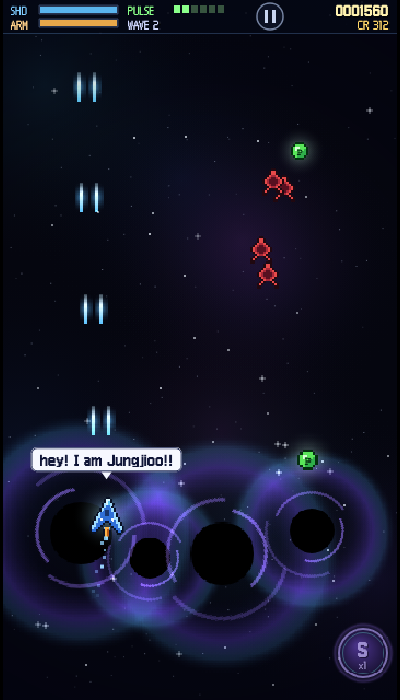
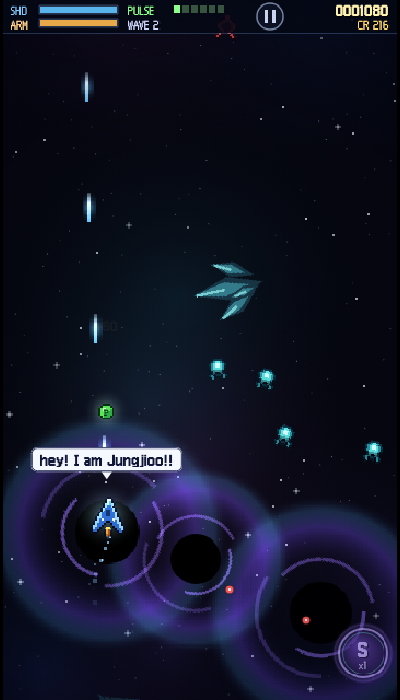
그래픽 패스 2: 스프라이트 입체감 필터·티리안식 지형 구조물·움직임 주스
- 전 함선/보스/파츠에 픽셀 입체감 필터(상단 림 라이트 + 하단 셀프 섀도 + 수직 그라디언트)
- 테마별 대형 지형 구조물이 흘러감: 수정 성단(성운)·용암 바위(원시별/적색거성)·
  소행성(주계열/초신성)·난파선 잔해(블랙홀) — 회전·스케일 랜덤
- 움직임 주스: 강하기 이동방향 기울기, 사인기 뱅킹, 측면기 기울기, 보스 미세 맥동

diff --git a/src/systems/textures.ts b/src/systems/textures.ts
@@ -454,6 +454,36 @@ function tinted(rows: string[], scale: number, color: string, alpha: number): HT
   return c;
 }
 
+/** 픽셀아트 입체감 필터: 상단 림 라이트 + 하단 셀프 섀도 + 수직 그라디언트 */
+function enhance(c: HTMLCanvasElement): HTMLCanvasElement {
+  const ctx = c.getContext('2d');
+  if (!ctx) return c;
+  const w = c.width;
+  const h = c.height;
+  const img = ctx.getImageData(0, 0, w, h);
+  const d = img.data;
+  const idx = (x: number, y: number) => (y * w + x) * 4;
+  const alphaAt = (x: number, y: number) =>
+    x < 0 || y < 0 || x >= w || y >= h ? 0 : (d[idx(x, y) + 3] ?? 0);
+  const out = ctx.createImageData(w, h);
+  out.data.set(d);
+  const o = out.data;
+  for (let y = 0; y < h; y++) {
+    for (let x = 0; x < w; x++) {
+      const i = idx(x, y);
+      if ((d[i + 3] ?? 0) === 0) continue;
+      let f = 1 + 0.16 * (0.5 - y / h);
+      if (alphaAt(x, y - 2) === 0) f *= 1.4;
+      else if (alphaAt(x, y + 2) === 0) f *= 0.7;
+      o[i] = Math.min(255, (d[i] ?? 0) * f);
+      o[i + 1] = Math.min(255, (d[i + 1] ?? 0) * f);
+      o[i + 2] = Math.min(255, (d[i + 2] ?? 0) * f);
+    }
+  }
+  ctx.putImageData(out, 0, 0);
+  return c;
+}
+
 /* ---------- 유틸: 글로우 탄환 ---------- */
 
 function glowBullet(
@@ -476,29 +506,29 @@ function glowBullet(
 
 export function generateTextures(scene: Phaser.Scene): void {
   // 함선
-  addCanvasTexture(scene, 'ship-player', pixmap(PLAYER_MAP, PLAYER_PAL, 2));
-  addCanvasTexture(scene, 'ship-e1', pixmap(E1_MAP, E1_PAL, 2));
-  addCanvasTexture(scene, 'ship-e2', pixmap(E2_MAP, E2_PAL, 2));
-  addCanvasTexture(scene, 'ship-e3', pixmap(E3_MAP, E3_PAL, 2));
-  addCanvasTexture(scene, 'ship-boss', pixmap(BOSS_MAP, BOSS_PAL, 3));
+  addCanvasTexture(scene, 'ship-player', enhance(pixmap(PLAYER_MAP, PLAYER_PAL, 2)));
+  addCanvasTexture(scene, 'ship-e1', enhance(pixmap(E1_MAP, E1_PAL, 2)));
+  addCanvasTexture(scene, 'ship-e2', enhance(pixmap(E2_MAP, E2_PAL, 2)));
+  addCanvasTexture(scene, 'ship-e3', enhance(pixmap(E3_MAP, E3_PAL, 2)));
+  addCanvasTexture(scene, 'ship-boss', enhance(pixmap(BOSS_MAP, BOSS_PAL, 3)));
   // 환영 함선(Jungjioo 러시): 플레이어 실루엣 청백 틴트
   addCanvasTexture(scene, 'ship-ghost', tinted(PLAYER_MAP, 2, 'rgb(150,225,255)', 0.88));
 
   // L1~L3 신규 적 (신규 맵 + 팔레트 스왑 변형)
-  addCanvasTexture(scene, 'ship-wisp', pixmap(WISP_MAP, WISP_PAL, 2));
-  addCanvasTexture(scene, 'ship-spore', pixmap(SPORE_MAP, SPORE_PAL, 2));
+  addCanvasTexture(scene, 'ship-wisp', enhance(pixmap(WISP_MAP, WISP_PAL, 2)));
+  addCanvasTexture(scene, 'ship-spore', enhance(pixmap(SPORE_MAP, SPORE_PAL, 2)));
   addCanvasTexture(
     scene,
     'ship-mite',
     pixmap(E1_MAP, { O: '#08282a', W: '#c8fff4', R: '#3ac8b8', r: '#1f8a80', d: '#0c4a48' }, 1),
   );
-  addCanvasTexture(scene, 'ship-ember', pixmap(EMBER_MAP, EMBER_PAL, 2));
+  addCanvasTexture(scene, 'ship-ember', enhance(pixmap(EMBER_MAP, EMBER_PAL, 2)));
   addCanvasTexture(
     scene,
     'ship-shard',
     pixmap(E3_MAP, { O: '#2a0424', W: '#ffd8f4', Y: '#ff8ad8', o: '#c83a9a', d: '#701858' }, 2),
   );
-  addCanvasTexture(scene, 'ship-orbiter', pixmap(ORBITER_MAP, ORBITER_PAL, 2));
+  addCanvasTexture(scene, 'ship-orbiter', enhance(pixmap(ORBITER_MAP, ORBITER_PAL, 2)));
   addCanvasTexture(
     scene,
     'ship-flare',
@@ -521,10 +551,10 @@ export function generateTextures(scene: Phaser.Scene): void {
       2,
     ),
   );
-  addCanvasTexture(scene, 'ship-prominence', pixmap(PROM_MAP, PROM_PAL, 2));
-  addCanvasTexture(scene, 'boss-amoeba', pixmap(AMOEBA_MAP, AMOEBA_PAL, 3));
-  addCanvasTexture(scene, 'boss-protocore', pixmap(PROTOCORE_MAP, PROTOCORE_PAL, 3));
-  addCanvasTexture(scene, 'boss-helios', pixmap(HELIOS_MAP, HELIOS_PAL, 3));
+  addCanvasTexture(scene, 'ship-prominence', enhance(pixmap(PROM_MAP, PROM_PAL, 2)));
+  addCanvasTexture(scene, 'boss-amoeba', enhance(pixmap(AMOEBA_MAP, AMOEBA_PAL, 3)));
+  addCanvasTexture(scene, 'boss-protocore', enhance(pixmap(PROTOCORE_MAP, PROTOCORE_PAL, 3)));
+  addCanvasTexture(scene, 'boss-helios', enhance(pixmap(HELIOS_MAP, HELIOS_PAL, 3)));
 
   // L4~L6 적 (팔레트 스왑 변형)
   addCanvasTexture(
@@ -590,15 +620,15 @@ export function generateTextures(scene: Phaser.Scene): void {
   );
 
   // 보스 3종 (@4 거대) + 파츠
-  addCanvasTexture(scene, 'boss-crimson', pixmap(CRIMSON_MAP, CRIMSON_PAL, 4));
-  addCanvasTexture(scene, 'boss-nova', pixmap(NOVA_MAP, NOVA_PAL, 4));
-  addCanvasTexture(scene, 'boss-singularity', pixmap(SING_MAP, SING_PAL, 4));
-  addCanvasTexture(scene, 'part-pod', pixmap(POD_MAP, POD_PAL, 3));
-  addCanvasTexture(scene, 'part-vane', pixmap(VANE_MAP, VANE_PAL, 3));
-  addCanvasTexture(scene, 'part-corona', pixmap(CORONA_MAP, CORONA_PAL, 3));
-  addCanvasTexture(scene, 'part-flarecannon', pixmap(CANNON_MAP, CANNON_PAL, 3));
-  addCanvasTexture(scene, 'part-shard', pixmap(SHARDP_MAP, SHARDP_PAL, 3));
-  addCanvasTexture(scene, 'part-arc', pixmap(ARC_MAP, ARC_PAL, 3));
+  addCanvasTexture(scene, 'boss-crimson', enhance(pixmap(CRIMSON_MAP, CRIMSON_PAL, 4)));
+  addCanvasTexture(scene, 'boss-nova', enhance(pixmap(NOVA_MAP, NOVA_PAL, 4)));
+  addCanvasTexture(scene, 'boss-singularity', enhance(pixmap(SING_MAP, SING_PAL, 4)));
+  addCanvasTexture(scene, 'part-pod', enhance(pixmap(POD_MAP, POD_PAL, 3)));
+  addCanvasTexture(scene, 'part-vane', enhance(pixmap(VANE_MAP, VANE_PAL, 3)));
+  addCanvasTexture(scene, 'part-corona', enhance(pixmap(CORONA_MAP, CORONA_PAL, 3)));
+  addCanvasTexture(scene, 'part-flarecannon', enhance(pixmap(CANNON_MAP, CANNON_PAL, 3)));
+  addCanvasTexture(scene, 'part-shard', enhance(pixmap(SHARDP_MAP, SHARDP_PAL, 3)));
+  addCanvasTexture(scene, 'part-arc', enhance(pixmap(ARC_MAP, ARC_PAL, 3)));
 
   // 플레이어 탄 (글로우 베이크)
   addCanvasTexture(
@@ -1187,5 +1217,118 @@ export function generateTextures(scene: Phaser.Scene): void {
       }
     }
     addCanvasTexture(scene, 'decor-swirl', c);
+  }
+
+  /* ---------- 대형 지형 구조물 (티리안식 흘러가는 지물) ---------- */
+  const snap2 = (v: number) => Math.round(v / 2) * 2;
+  const bigRock = (key: string, base: string, mid: string, hi: string, crack?: string) => {
+    const [c, ctx] = canvas(96, 96);
+    const cx = 48;
+    const cy = 48;
+    const r = 38;
+    const verts: [number, number][] = [];
+    const n = 11;
+    const seed = Math.random() * 6.28;
+    for (let i = 0; i < n; i++) {
+      const a = seed + (i / n) * Math.PI * 2;
+      const rr = r * (0.72 + Math.random() * 0.4);
+      verts.push([snap2(cx + Math.cos(a) * rr), snap2(cy + Math.sin(a) * rr)]);
+    }
+    const poly = (offX: number, offY: number, shrink: number) => {
+      ctx.beginPath();
+      verts.forEach(([vx, vy], i) => {
+        const px = cx + (vx - cx) * shrink + offX;
+        const py = cy + (vy - cy) * shrink + offY;
+        if (i === 0) ctx.moveTo(px, py);
+        else ctx.lineTo(px, py);
+      });
+      ctx.closePath();
+    };
+    ctx.fillStyle = '#0a0a12';
+    poly(3, 4, 1);
+    ctx.fill();
+    ctx.fillStyle = base;
+    poly(0, 0, 1);
+    ctx.fill();
+    ctx.fillStyle = mid;
+    poly(-r * 0.1, -r * 0.14, 0.74);
+    ctx.fill();
+    ctx.fillStyle = hi;
+    poly(-r * 0.18, -r * 0.24, 0.42);
+    ctx.fill();
+    for (let k = 0; k < 4; k++) {
+      const ca = Math.random() * 6.28;
+      const cd = r * 0.5 * Math.random();
+      ctx.fillStyle = 'rgba(10,8,14,0.5)';
+      ctx.beginPath();
+      ctx.arc(snap2(cx + Math.cos(ca) * cd), snap2(cy + Math.sin(ca) * cd), 4 + r * 0.12, 0, 7);
+      ctx.fill();
+    }
+    if (crack) {
+      ctx.strokeStyle = crack;
+      ctx.lineWidth = 2;
+      for (let k = 0; k < 3; k++) {
+        const a0 = Math.random() * 6.28;
+        ctx.beginPath();
+        ctx.moveTo(cx + Math.cos(a0) * r * 0.2, cy + Math.sin(a0) * r * 0.2);
+        ctx.lineTo(cx + Math.cos(a0 + 0.5) * r * 0.6, cy + Math.sin(a0 + 0.5) * r * 0.6);
+        ctx.lineTo(cx + Math.cos(a0 + 0.3) * r * 0.9, cy + Math.sin(a0 + 0.3) * r * 0.9);
+        ctx.stroke();
+      }
+    }
+    addCanvasTexture(scene, key, c);
+  };
+  bigRock('prop-rock', '#584a40', '#7a685a', '#948270');
+  bigRock('prop-emberrock', '#4a2018', '#7a3020', '#a84828', '#ff8a3a');
+  {
+    // 수정 성단 (성운 테마)
+    const [c, ctx] = canvas(90, 100);
+    const crystal = (cx: number, cy: number, w2: number, h2: number, rot: number) => {
+      ctx.save();
+      ctx.translate(cx, cy);
+      ctx.rotate(rot);
+      ctx.fillStyle = '#1a3a4a';
+      ctx.beginPath();
+      ctx.moveTo(0, -h2);
+      ctx.lineTo(w2, 0);
+      ctx.lineTo(0, h2);
+      ctx.lineTo(-w2, 0);
+      ctx.closePath();
+      ctx.fill();
+      ctx.fillStyle = '#3a8a9a';
+      ctx.beginPath();
+      ctx.moveTo(0, -h2);
+      ctx.lineTo(w2 * 0.6, -h2 * 0.1);
+      ctx.lineTo(0, h2 * 0.6);
+      ctx.lineTo(-w2 * 0.6, -h2 * 0.1);
+      ctx.closePath();
+      ctx.fill();
+      ctx.fillStyle = '#8ae8e8';
+      ctx.fillRect(-2, -h2 + 4, 3, h2 * 0.8);
+      ctx.restore();
+    };
+    crystal(45, 55, 14, 42, 0);
+    crystal(24, 62, 10, 28, -0.5);
+    crystal(66, 64, 9, 26, 0.45);
+    crystal(38, 74, 7, 18, -0.2);
+    addCanvasTexture(scene, 'prop-crystal', c);
+  }
+  {
+    // 난파선 잔해 (블랙홀 테마)
+    const rows = [
+      '....OOOOOO..........',
+      '..OOhhhhhhOO...OOO..',
+      '.OhhHHHHhhhhO.OhhhO.',
+      'OhhHHwwHHhhhhOhhhhhO',
+      'OhhHwwwwHhhhhhhhhhhO',
+      '.OhhHHHHhhhOOOhhhhO.',
+      '..OOhhhhOO...OOhhO..',
+      '....OOOO.......OO...',
+      '.......O..O.........',
+      '......OhOOhO........',
+      '......OOOOOO........',
+    ];
+    const pal = { O: '#0c0c14', h: '#3a3a4a', H: '#5a5a70', w: '#8a93b0' };
+    addCanvasTexture(scene, 'prop-derelict', enhance(pixmap(rows, pal, 4)));
   }
 }

diff --git a/src/scenes/GameScene.ts b/src/scenes/GameScene.ts
@@ -223,6 +223,9 @@ export class GameScene extends Phaser.Scene {
   private worldT = 0;
   private flashes: Flash[] = [];
   private thrustT = 0;
+  private props: { img: Phaser.GameObjects.Image; rot: number }[] = [];
+  private nextPropAt = 4;
+  private propT = 0;
 
   // 장비 (후방무기·사이드킥)
   private rearCd = 0;
@@ -307,6 +310,9 @@ export class GameScene extends Phaser.Scene {
     this.hudPips = [];
     this.flashes = [];
     this.thrustT = 0;
+    this.props = [];
+    this.propT = 0;
+    this.nextPropAt = 4 + Math.random() * 5;
     this.rearCd = 0;
     this.sideCd = 0;
     this.podL = this.podR = this.satellite = null;
@@ -1390,6 +1396,7 @@ export class GameScene extends Phaser.Scene {
     this.worldT += dt;
 
     this.spaceBg.update(dt, this.scrollSpd);
+    this.updateProps(dt);
     if (this.bannerT > 0) {
       this.bannerT -= dt;
       this.bannerText.setAlpha(Math.min(1, this.bannerT * 2));
@@ -1785,6 +1792,14 @@ export class GameScene extends Phaser.Scene {
         }
       }
       e.img.setPosition(e.x, e.y);
+      // 움직임 주스: 이동 방향에 따른 기울기
+      if (def.behavior === 'diver') {
+        e.img.setRotation(clamp((e.vx ?? 0) * 0.0016, -0.45, 0.45));
+      } else if (def.behavior === 'sineDescend') {
+        e.img.setRotation(Math.cos(e.t * (e.f ?? 2)) * (e.amp ?? 0) * 0.003);
+      } else if (def.behavior === 'strafer') {
+        e.img.setRotation((e.dir ?? 1) * 0.18);
+      }
       // 피격 화이트 플래시
       if (e.flashT > 0) {
         e.flashT -= dt;
@@ -1883,6 +1898,7 @@ export class GameScene extends Phaser.Scene {
       }
     }
     B.img.setPosition(B.x, B.y);
+    B.img.setScale(1 + Math.sin(B.t * 2.4) * 0.02);
     // 파츠: 앵커 추적 + 자체 사격
     for (const part of B.parts) {
       if (!part.alive) continue;
@@ -2020,6 +2036,43 @@ export class GameScene extends Phaser.Scene {
         this.pool.release(o.img);
         this.pool.release(o.glow);
         this.orbs.splice(i, 1);
+      }
+    }
+  }
+
+  /** 티리안식 대형 지형 구조물 — 테마별 프롭이 스크롤을 따라 흘러간다 */
+  private updateProps(dt: number): void {
+    this.propT += dt;
+    if (this.propT >= this.nextPropAt) {
+      this.propT = 0;
+      this.nextPropAt = 7 + Math.random() * 6;
+      const table: Record<string, string[]> = {
+        nebula: ['prop-crystal'],
+        protostar: ['prop-emberrock'],
+        mainseq: ['prop-emberrock', 'prop-rock'],
+        asteroids: ['prop-rock'],
+        redgiant: ['prop-emberrock'],
+        supernova: ['prop-rock'],
+        blackhole: ['prop-derelict'],
+      };
+      const keys = table[this.level.background.theme] ?? ['prop-rock'];
+      const key = keys[Math.floor(Math.random() * keys.length)] ?? 'prop-rock';
+      const img = this.add
+        .image(rnd(45, GAME_WIDTH - 45), -90, key)
+        .setDepth(DEPTH.bg + 0.8)
+        .setAlpha(0.88)
+        .setScale(rnd(0.65, 1.25))
+        .setRotation(rnd(0, 6.28));
+      this.props.push({ img, rot: rnd(-0.25, 0.25) });
+    }
+    for (let i = this.props.length - 1; i >= 0; i--) {
+      const pr = this.props[i];
+      if (!pr) continue;
+      pr.img.y += this.scrollSpd * 1.15 * dt;
+      pr.img.rotation += pr.rot * dt;
+      if (pr.img.y > GAME_HEIGHT + 100) {
+        pr.img.destroy();
+        this.props.splice(i, 1);
       }
     }
   }
